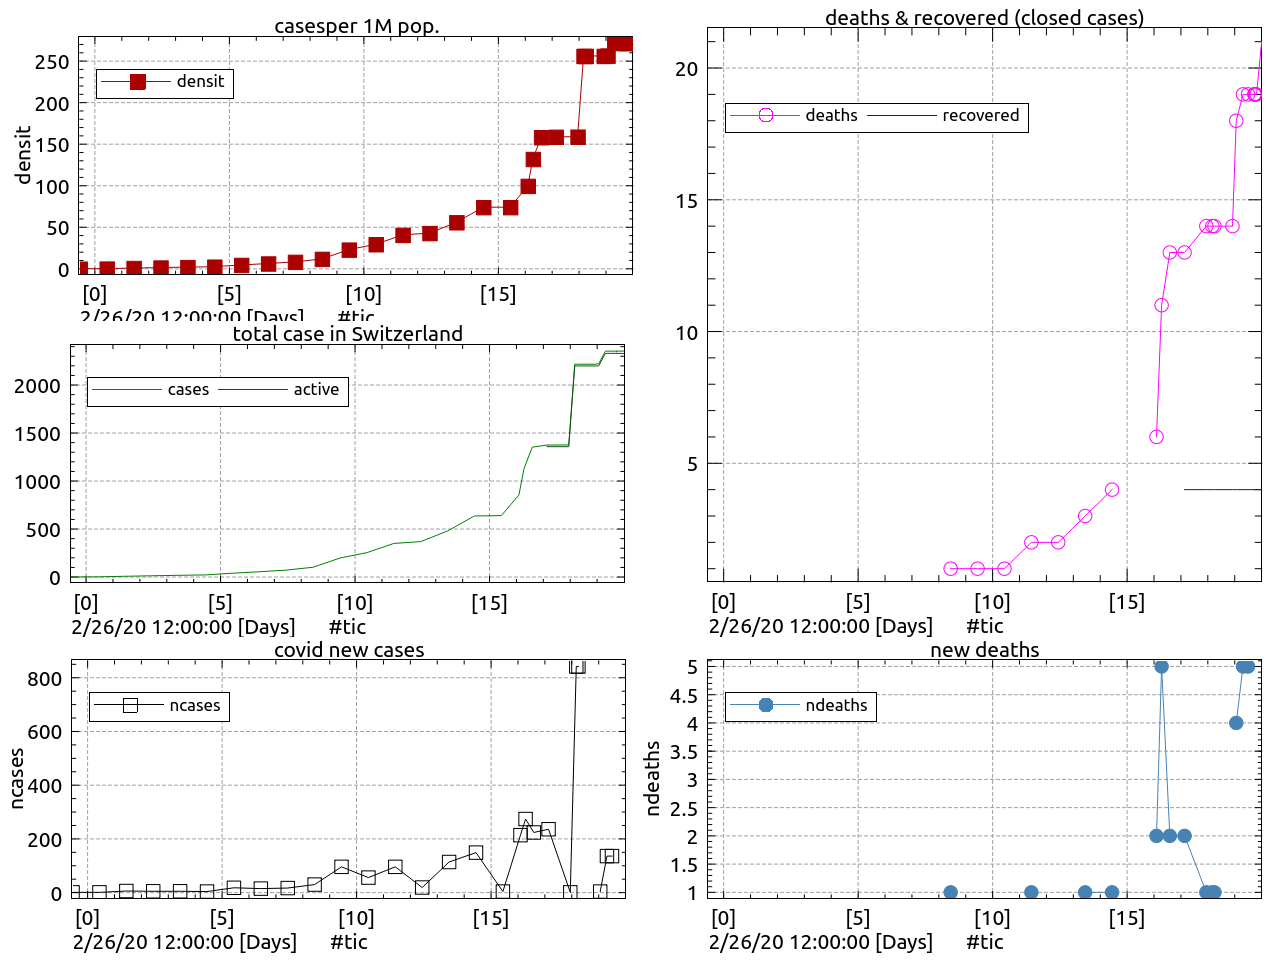
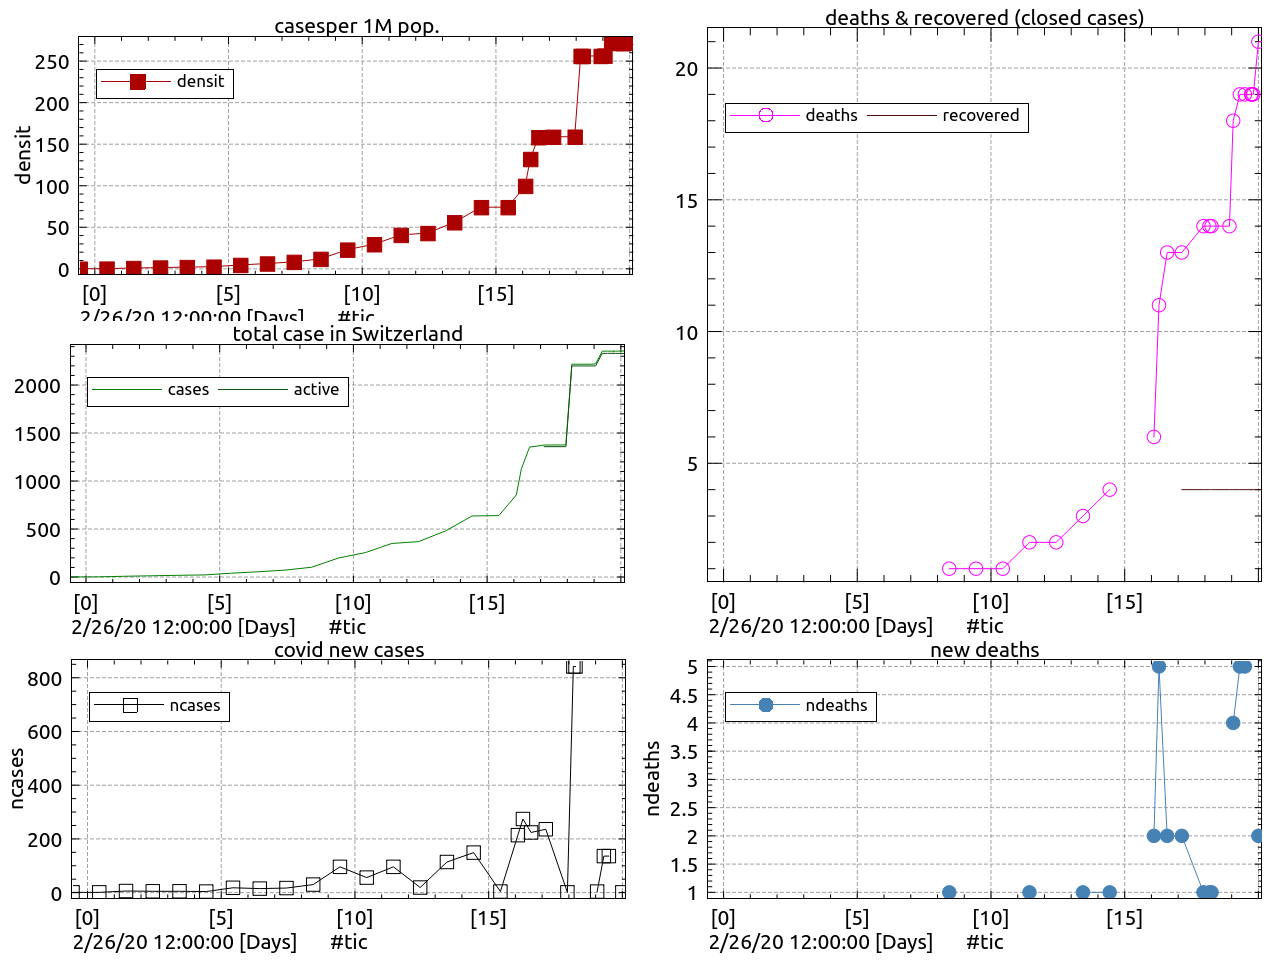
pandemy status on 03/17/20 15:52:01

diff --git a/covid19.md b/covid19.md
@@ -4,6 +4,7 @@
 - \[03/17/20]: 2330/2353cases [QmV8TK16duBgoPXAEQsbD1jQdywSM9fUBUqXLKiePexGeV](https://cloudflare-ipfs.com/ipfs/QmcTzxFKvB3A3EPCZBYpazTSajuC1LBEXTmnC3kLRLji6W) [data](covid.yml),[csv](covid.csv)
 - \[03/17/20]: 2330/2353cases [QmTnDy7AYYM2Ne7GQyW4HerrcziVXBHQcF5vpekuNmhFBs](https://cloudflare-ipfs.com/ipfs/QmY4pmA4H2abNWnWZpw9NNz1vS577dF9u4Ap2ZYt1Jh1GC) [data](covid.yml),[csv](covid.csv)
 - \[03/17/20]: 2330/2353cases [Qma69J5m6CfcMKv5UN5AqaUDoVKPXt8Kh8Z19aF5TkCxSS](https://cloudflare-ipfs.com/ipfs/QmbV6mv5po1G6nzMWDyrcBg68owmrZSz55WTKYsM5XHsRb) [data](covid.yml),[csv](covid.csv)
+- \[03/17/20]: 2329/2354cases [QmY7DpgGkEF9RCBTRYDYfK1Y9kRguSwhVzRicPMC5pCUdu](https://cloudflare-ipfs.com/ipfs/QmY4pmA4H2abNWnWZpw9NNz1vS577dF9u4Ap2ZYt1Jh1GC) [data](covid.yml),[csv](covid.csv)
 - \[03/17/20]: 2329/2354cases [QmUt9We6jdhK9H7GavKgpPAsR6nNFPPwKAg4wQUpqepFMV](https://cloudflare-ipfs.com/ipfs/QmY4pmA4H2abNWnWZpw9NNz1vS577dF9u4Ap2ZYt1Jh1GC) [data](covid.yml),[csv](covid.csv)
 - \[03/16/20]: /cases [QmZcNCbwmQB9oGRK8TCqPcHdHKHJ4un4fvThikQqhDE4A2](https://cloudflare-ipfs.com/ipfs/QmZkR9ssRLbAdAiq2VTno5pkbLVu7po8rnfj7eQWANT3cp) [data](covid.yml),[csv](covid.csv)
 - \[03/16/20]: 2330/2353cases [QmexLTMAJqJS3SvTYMfSfKTQYz6Yyz8yPpFU69dXToWiQH](https://cloudflare-ipfs.com/ipfs/QmaCKQjx1EBdwgVJP79wG681by7biv8XKxuRnjyFcQQfWN) [data](covid.yml),[csv](covid.csv)

diff --git a/README.md b/README.md
@@ -1,6 +1,6 @@
 # README: corona virus daily status in Switzerland ...
 
-## on 03/17/20 12:59:23 ([snapshot](https://ipfs.io/ipfs/QmY4pmA4H2abNWnWZpw9NNz1vS577dF9u4Ap2ZYt1Jh1GC))
+## on 03/17/20 15:52:00 ([snapshot](https://ipfs.io/ipfs/QmY4pmA4H2abNWnWZpw9NNz1vS577dF9u4Ap2ZYt1Jh1GC))
 
  272.0 cases per 1M pop,<br>
  2354 Total cases in Switzerland (2329 actives)
@@ -8,7 +8,7 @@
  21 deaths,
  4 recovered (resurected ?)
 
-last update : <https://ipfs.blockringtm.ml/ipfs/QmSrEjPFbKUY9jKeyedTzv5eNigM9NmJdjLD3RV2if6gwN/covid19.html>
+last update : <https://ipfs.blockringtm.ml/ipfs/QmVjGHLw8hnmiYFdFghxifeRXDnF8sF4yrJ5uyPySFmn2H/covid19.html>
 
  ![charts](covid.png)
 
@@ -24,8 +24,8 @@ sources:
   - <https://michel47.github.io/covid19>
   - <https://github.com/michel47/covid19>
   - <https://duckduckgo.com/?q=switzerland+progression+coronavirus>
-  - <https://gateway.ipfs.io/ipfs/QmUt9We6jdhK9H7GavKgpPAsR6nNFPPwKAg4wQUpqepFMV>
+  - <https://gateway.ipfs.io/ipfs/QmY7DpgGkEF9RCBTRYDYfK1Y9kRguSwhVzRicPMC5pCUdu>
   - <https://gateway.ipfs.io/ipfs/QmY4pmA4H2abNWnWZpw9NNz1vS577dF9u4Ap2ZYt1Jh1GC>
-  - <https://gateway.ipfs.io/ipfs/QmSrEjPFbKUY9jKeyedTzv5eNigM9NmJdjLD3RV2if6gwN>
+  - <https://gateway.ipfs.io/ipfs/QmVjGHLw8hnmiYFdFghxifeRXDnF8sF4yrJ5uyPySFmn2H>
   
 

diff --git a/covid19u.md b/covid19u.md
@@ -59,3 +59,4 @@
 - \[03/17/20]: 2330/2353cases [QmVo1i9NSvBFvnL2Fv2z7oPPudW1EynWa9tbViFTThRBLf](https://cloudflare-ipfs.com/ipfs/QmY4pmA4H2abNWnWZpw9NNz1vS577dF9u4Ap2ZYt1Jh1GC) [data](covid.yml),[csv](covid.csv)
 - \[03/17/20]: 2330/2353cases [QmTnDy7AYYM2Ne7GQyW4HerrcziVXBHQcF5vpekuNmhFBs](https://cloudflare-ipfs.com/ipfs/QmY4pmA4H2abNWnWZpw9NNz1vS577dF9u4Ap2ZYt1Jh1GC) [data](covid.yml),[csv](covid.csv)
 - \[03/17/20]: 2329/2354cases [QmUt9We6jdhK9H7GavKgpPAsR6nNFPPwKAg4wQUpqepFMV](https://cloudflare-ipfs.com/ipfs/QmY4pmA4H2abNWnWZpw9NNz1vS577dF9u4Ap2ZYt1Jh1GC) [data](covid.yml),[csv](covid.csv)
+- \[03/17/20]: 2329/2354cases [QmY7DpgGkEF9RCBTRYDYfK1Y9kRguSwhVzRicPMC5pCUdu](https://cloudflare-ipfs.com/ipfs/QmY4pmA4H2abNWnWZpw9NNz1vS577dF9u4Ap2ZYt1Jh1GC) [data](covid.yml),[csv](covid.csv)
